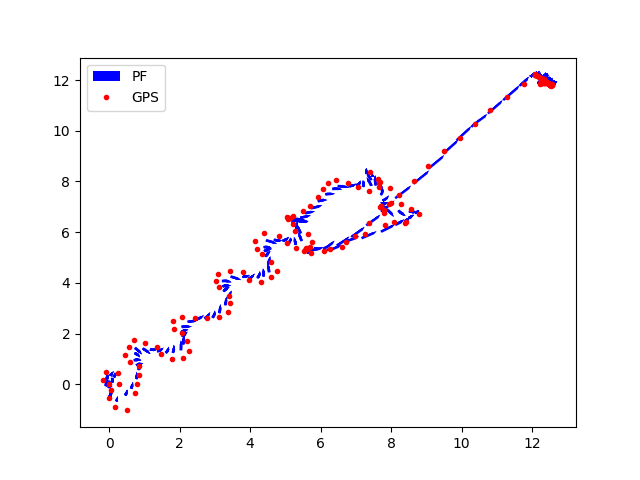
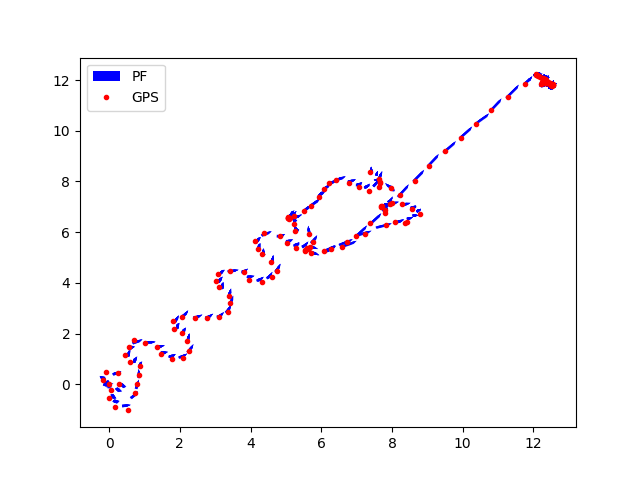
change weights update gps

diff --git a/pf/particle_filter.py b/pf/particle_filter.py
@@ -5,7 +5,6 @@ import numpy as np
 import random
 import matplotlib.pyplot as plt
 
-
 class Particle:
     def __init__(self, x=0, y=0, theta=0):
         self.x = x
@@ -33,9 +32,11 @@ class ParticleFilter:
         self.particles = [Particle(0,0,i/self.num_particles * 2 * pi) for i in range(self.num_particles)]
 
         self.first_gps = None
+        self.last_gps = None
 
 
-    def update_odom(self, data):
+    def update_odom(self, data, display_details):
+        i, test_file, display_bool = display_details
         sum_x = 0
         sum_y = 0
         sum_theta_x = 0
@@ -47,27 +48,43 @@ class ParticleFilter:
             particle.theta += data.delta_theta
             particle.theta = particle.theta % (2 * pi)
 
-            sum_x += particle.x
-            sum_y += particle.y
-            sum_theta_x += cos(particle.theta)
-            sum_theta_y += sin(particle.theta)
+            sum_x += particle.x#*particle.weight
+            sum_y += particle.y#*particle.weight
+            sum_theta_x += cos(particle.theta)#*particle.weight
+            sum_theta_y += sin(particle.theta)#*particle.weight
 
         # Report current average of particles
         avg_x = sum_x / self.num_particles
         avg_y = sum_y / self.num_particles
         avg_theta = atan2(sum_theta_y / self.num_particles, sum_theta_x / self.num_particles) % (2 * pi)
 
+        if (display_bool):
+            display_particles(self,f'plots/{test_file}/{i}_updateodom.png')
         return (avg_x, avg_y, avg_theta)
 
-    def update_gps(self, data, i, test_file,display_bool):
+    def update_gps(self, data, display_details):
+        i, test_file, display_bool = display_details
         if self.first_gps is None:
             self.first_gps = (data.latitude, data.longitude)
 
         gps_x = (data.latitude - self.first_gps[0]) * 110984.8 # Approximations
         gps_y = (self.first_gps[1] - data.longitude) * 90994.1
 
+        if self.last_gps is None:
+            self.last_gps = (gps_x, gps_y)
+
+        dif_x = gps_x - self.last_gps[0]
+        dif_y = gps_y - self.last_gps[1]
+        theta = atan2(dif_x, dif_y)
+
         for particle in self.particles:
-            dist_sqr = (particle.x - gps_x)**2 + (particle.y - gps_y)**2
+            dist_sqr = np.sqrt((particle.x - gps_x)**2 + (particle.y - gps_y)**2)
+            dif_x_part = (particle.x - gps_x)
+            dif_y_part = particle.y - gps_y
+            theta_part = atan2(dif_x_part, dif_y_part)
+            theta_sqr = np.sqrt((theta_part- theta)**2)
+
+            #dist_sqr *= theta_sqr
 
             particle.weight = exp(-dist_sqr / (2 * self.gps_noise[0]**2))
 
@@ -77,6 +94,8 @@ class ParticleFilter:
             display_particles(self,f'plots/{test_file}/{i}_1after_resample.png')
         else:
             self.resample()
+
+        self.last_gps = (gps_x, gps_y)
         return (gps_x, gps_y)
 
     def resample(self):
@@ -91,11 +110,12 @@ class ParticleFilter:
 
         for particle in new_particles:
             # Sprinkle some random
-            x = np.random.normal(particle.x, self.odom_noise[0])
-            y = np.random.normal(particle.y, self.odom_noise[1])
+            rand_x = np.random.normal(0, self.odom_noise[0])
+            x = particle.x + rand_x * cos(particle.theta)
+            y = particle.y + rand_x * sin(particle.theta)
             theta = np.random.normal(particle.theta, self.odom_noise[2])
 
-            self.particles.append(Particle(x, y, theta))            
+            self.particles.append(Particle(x, y, theta))                
 
 def display_particles(self, filename):
     xpoints = []
@@ -112,7 +132,8 @@ def display_particles(self, filename):
 
     u, v = (np.cos(theta), np.sin(theta))
 
-    plt.quiver(xpoints, ypoints, u, v, linewidths=1, label='PF', color='blue')
+    plt.cla()
+    plt.quiver(xpoints, ypoints, u, v, linewidths=1, scale=40, label='PF', color='blue')
     plt.xlim(-5, 15)
     plt.ylim(-5,15)
     plt.savefig(filename)

diff --git a/pf/pf_test.py b/pf/pf_test.py
@@ -5,11 +5,11 @@ import os
 import matplotlib.pyplot as plt
 
 
-pf = pf.ParticleFilter(num_particles=720, gps_noise=[1.0], odom_noise=[0.5, 0.5, 0.2])
+pf = pf.ParticleFilter(num_particles=400, gps_noise=[0.2], odom_noise=[0.1, 0.2, 0.8])
 test_file = "pf_test_20220520-185151.csv"
 test_noend = test_file.split(".")[0]
 
-display_particles = True
+display_particles = False
 
 if not os.path.exists(f'plots/{test_noend}'):
     os.makedirs(f'plots/{test_noend}')
@@ -36,17 +36,18 @@ with open(test_file,"r") as file:
     tsv_file = pd.read_csv(file,engine='c', header=0)
 
     for idx, row in tsv_file.iterrows():
+        display_details = (idx, test_noend, display_particles) # info needed to save displaying particles per update
         if not np.isnan(row['gps_lat']):
             # GPS
             gps_data = gps(row['gps_lat'], row['gps_lon'])
-            (gps_x, gps_y) = pf.update_gps(gps_data, idx,test_noend,display_particles)
+            (gps_x, gps_y) = pf.update_gps(gps_data, display_details)
             gps_xpoints.append(gps_x)
             gps_ypoints.append(gps_y)
 
         elif not np.isnan(row['dr_x']):
             # Odom
             odom_data = odom(row['dr_x'], row['dr_y'], row['dr_theta'])
-            avg_x, avg_y, avg_theta = pf.update_odom(odom_data)
+            avg_x, avg_y, avg_theta = pf.update_odom(odom_data, display_details)
 
             #print(avg_x, avg_y, avg_theta)
             xpoints.append(avg_x)
@@ -57,8 +58,9 @@ with open(test_file,"r") as file:
     u, v = (np.cos(theta), np.sin(theta))
 
     #plt.plot(xpoints, ypoints, plt.quiver(u,v), '.', label='PF', color='blue')
+    plt.cla()
     plt.quiver(xpoints, ypoints, u, v, linewidths=1, label='PF', color='blue')
     plt.plot(gps_xpoints, gps_ypoints, '.', label='GPS', color='red')
     plt.legend()
     plt.savefig('plots/particles.png')
-    #plt.show()
+    plt.show()
